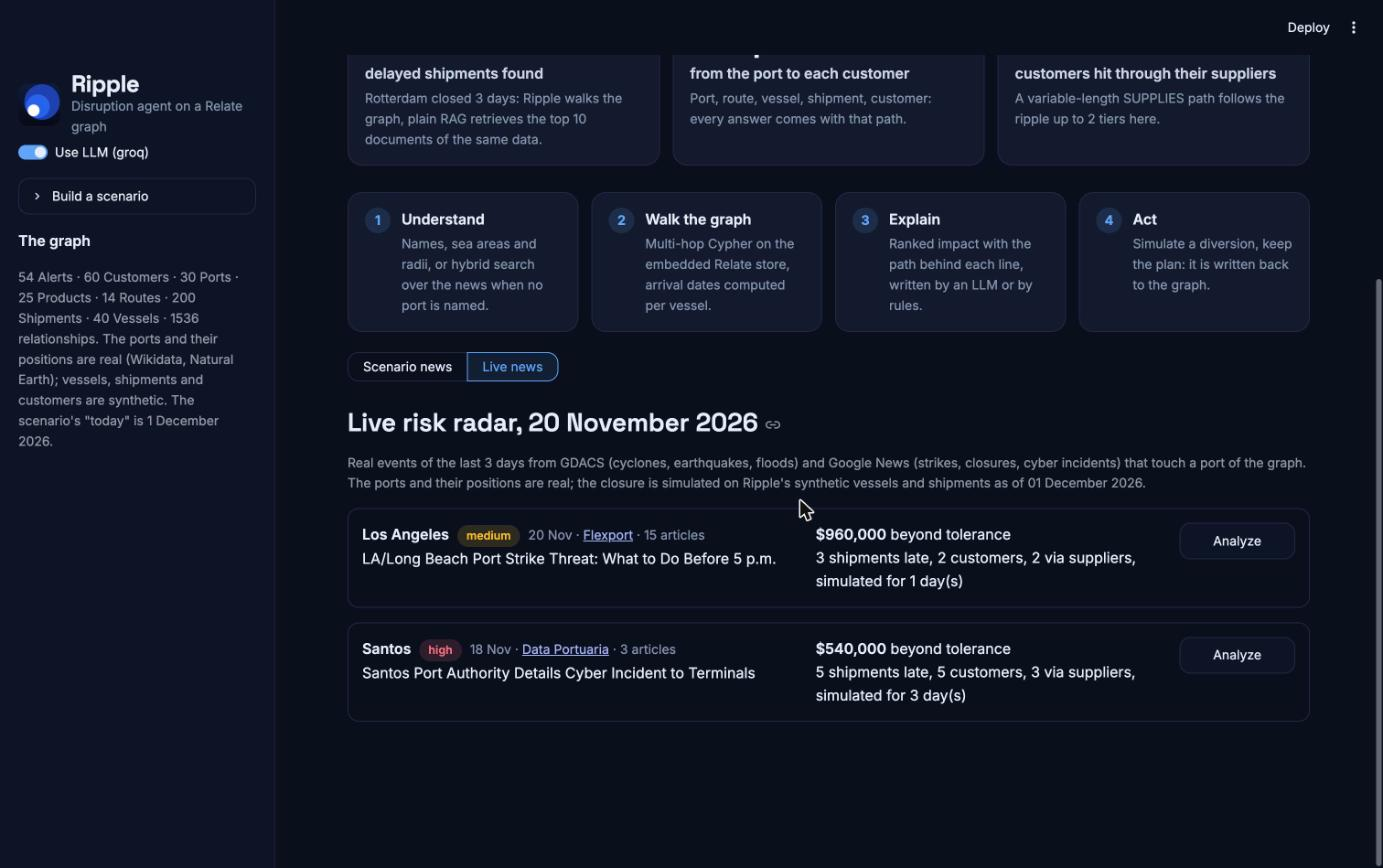
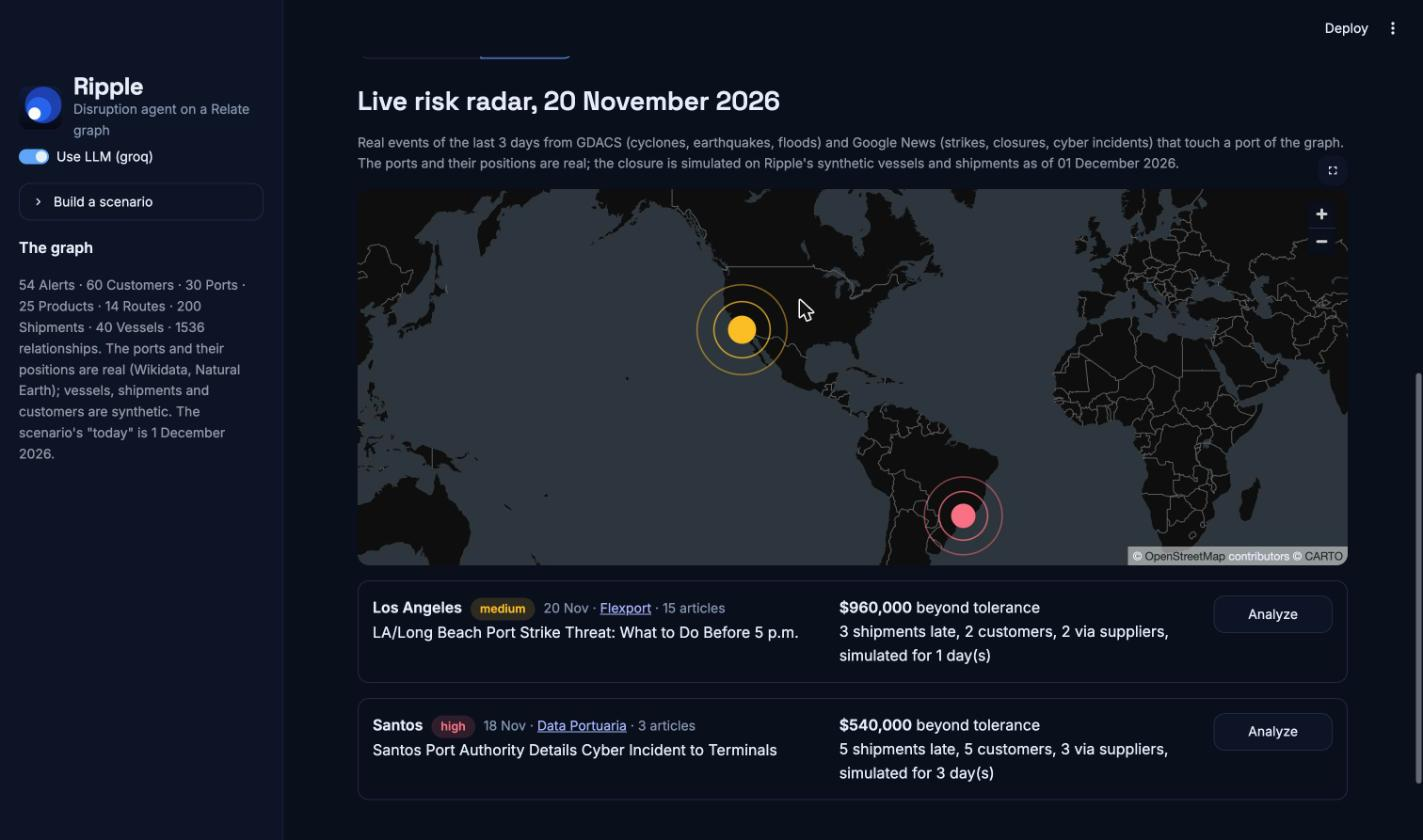
Show the ripple on a world map
New Impact map tab: the closed port with the logo's rings, one arc per late
shipment from its origin to its destination port (red beyond tolerance),
on to the customers' countries, then to the companies hit through their
suppliers, and the best fallback port. The risk radar also sits on a globe.
ripple/geo.py builds the rows (real port positions, customers at the centre
of their country); pydeck draws them on a CARTO basemap, no key needed.

diff --git a/app.py b/app.py
@@ -13,10 +13,11 @@ from html import escape
 from pathlib import Path
 
 import pandas as pd
+import pydeck as pdk
 import streamlit as st
 import streamlit.components.v1 as components
 
-from ripple import agent, db, live, llm, mitigation, plain_rag, queries, radar, viz, workspace
+from ripple import agent, db, geo, live, llm, mitigation, plain_rag, queries, radar, viz, workspace
 from ripple.generate import SCENARIO_DATE
 
 EXAMPLES = [
@@ -178,6 +179,85 @@ def graph_stats() -> dict:
     return {"nodes": nodes, "relationships": rels}
 
 
+# Map colours (RGBA): the logo's blues, plus red for the disruption and green for the way out.
+RED, AMBER, GREEN = [251, 113, 133], [251, 191, 36], [52, 211, 153]
+BLUE, VIOLET, GREY = [96, 165, 250], [167, 139, 250], [148, 163, 184]
+
+
+def deck(layers: list, lon: float = 20.0, lat: float = 25.0, zoom: float = 0.9) -> pdk.Deck:
+    # Scrolling the page must not zoom the map: zoom with the + and - buttons or a double click.
+    view = pdk.View(type="MapView", controller={"scrollZoom": False, "dragPan": True, "doubleClickZoom": True})
+    return pdk.Deck(layers=layers, views=[view], map_provider="carto", map_style=pdk.map_styles.CARTO_DARK,
+                    initial_view_state=pdk.ViewState(longitude=lon, latitude=lat, zoom=zoom, pitch=0),
+                    tooltip={"html": "{tip}", "style": {"backgroundColor": "#121A2C", "color": "#E6EDF7",
+                                                        "fontSize": "13px", "borderRadius": "8px"}})
+
+
+def rings(position: list, color: list, radii=(8, 15, 23)) -> list:
+    """The logo's ripple drawn on the map: a filled centre and widening rings (sizes in pixels)."""
+    point = [{"position": position, "tip": ""}]
+    layers = [pdk.Layer("ScatterplotLayer", point, get_position="position", radius_units="pixels",
+                        get_radius=r, filled=False, stroked=True, get_line_color=color + [230 - 65 * i],
+                        line_width_min_pixels=2) for i, r in enumerate(radii)]
+    return layers + [pdk.Layer("ScatterplotLayer", point, get_position="position", radius_units="pixels",
+                               get_radius=5, get_fill_color=color + [255])]
+
+
+@st.cache_data(show_spinner=False)
+def impact_map_data(result_json: str) -> dict:
+    conn = db.connect()
+    try:
+        return geo.impact_map(conn, json.loads(result_json))
+    finally:
+        conn.close()
+
+
+def show_impact_map(result: dict) -> None:
+    m = impact_map_data(json.dumps(result, default=str))
+    for s in m["shipments"]:
+        s["tip"] = (f"<b>{s['shipment']}</b> for {escape(s['customer'])}<br>{s['from_name']} → {s['to_name']}"
+                    f"<br>+{s['delay_days']} days" + (" · beyond tolerance" if s["beyond_tolerance"] else ""))
+    for d in m["deliveries"]:
+        d["tip"] = f"{d['customers']} late delivery(ies) to customers in {d['country']}"
+    for r in m["ripple"]:
+        r["tip"] = f"<b>{escape(r['customer'])}</b> is supplied by {escape(r['via'])}: hit {r['hops']} tier(s) later"
+    for p in m["ports"]:
+        p.update(position=[p["lon"], p["lat"]], tip=p["name"])
+    layers = [
+        pdk.Layer("ScatterplotLayer", m["ports"], get_position="position", get_radius=60_000, radius_min_pixels=3,
+                  get_fill_color=GREY + [140], pickable=True),
+        pdk.Layer("ArcLayer", m["ripple"], get_source_position="from", get_target_position="to",
+                  get_source_color=BLUE + [120], get_target_color=VIOLET + [230], get_width=1.5,
+                  get_height=0.5, pickable=True),
+        pdk.Layer("ArcLayer", m["deliveries"], get_source_position="from", get_target_position="to",
+                  get_source_color=AMBER + [160], get_target_color=BLUE + [230], get_width=2, pickable=True),
+        pdk.Layer("ArcLayer", [s for s in m["shipments"] if not s["beyond_tolerance"]],
+                  get_source_position="from", get_target_position="to", get_source_color=AMBER + [120],
+                  get_target_color=AMBER + [255], get_width=2.5, pickable=True),
+        pdk.Layer("ArcLayer", [s for s in m["shipments"] if s["beyond_tolerance"]],
+                  get_source_position="from", get_target_position="to", get_source_color=RED + [120],
+                  get_target_color=RED + [255], get_width=3.5, pickable=True),
+    ]
+    headline = [f"<b>{len(m['shipments'])}</b> late shipments to customers in <b>{len(m['countries'])}</b> countries"]
+    if m["fallback"]:
+        there = [m["fallback"]["lon"], m["fallback"]["lat"]]
+        layers += rings(there, GREEN, radii=(9,))
+        headline.append(f'best fallback: <b class="rp-good">{escape(m["fallback"]["name"])}</b>')
+    if m["closed"]:
+        here = [m["closed"]["lon"], m["closed"]["lat"]]
+        layers += rings(here, RED)
+        headline.insert(0, f'<b class="rp-bad">{escape(m["closed"]["name"])}</b> closed')
+    html('<div style="margin:.2rem 0 .5rem">' + " · ".join(headline) + "</div>")
+    st.pydeck_chart(deck(layers, lon=35.0, lat=22.0, zoom=0.95), height=520)
+    html('<div class="rp-muted" style="display:flex;flex-wrap:wrap;gap:6px 18px;margin-top:.3rem">'
+         '<span><span class="rp-bad">━</span> late shipment, beyond the customer\'s tolerance</span>'
+         '<span style="color:#FBBF24">━</span><span style="margin-left:-12px">&nbsp;late, still tolerated</span>'
+         '<span><span style="color:#60A5FA">━</span> on to the customer\'s country</span>'
+         '<span><span style="color:#A78BFA">━</span> companies hit through their suppliers</span>'
+         '<span><span class="rp-good">●</span> best fallback port</span>'
+         '<span>Ports and routes are real places; customers sit at the centre of their country.</span></div>')
+
+
 def show_result(result: dict, key: str) -> None:
     d, s = result["disruption"], result["summary"]
     what = "closed" if d["kind"] == "port_closure" else "out of service"
@@ -195,9 +275,12 @@ def show_result(result: dict, key: str) -> None:
         st.info("No vessel in the graph is scheduled to call there during that window.")
         return
 
-    tab_list, tab_graph, tab_downstream, tab_mitigation = st.tabs(
-        ["Impacted shipments", "Impact graph", "Ripple effect",
+    tab_map, tab_list, tab_graph, tab_downstream, tab_mitigation = st.tabs(
+        ["Impact map", "Impacted shipments", "Impact graph", "Ripple effect",
          "Mitigation" if d["kind"] == "port_closure" else "Alternatives"])
+
+    with tab_map:
+        show_impact_map(result)
 
     with tab_list:
         table = pd.DataFrame([{
@@ -406,6 +489,29 @@ def live_rows(day: str) -> tuple[list, list]:
         conn.close()
 
 
+def show_radar_map(rows: list) -> None:
+    conn = db.connect()
+    try:
+        points = geo.radar_map(conn, rows)
+    finally:
+        conn.close()
+    layers = []
+    top = max((p["value"] for p in points), default=1) or 1
+    for p in points:
+        color = RED if p["severity"] == "high" else AMBER
+        size = 3 + 3.5 * (p["value"] / top) ** 0.5  # pixels: area grows with the cargo at risk
+        p["tip"] = f"<b>{p['name']}</b> · {agent.money(p['value'])} beyond tolerance<br>{escape(p['text'])}"
+        layers += [pdk.Layer("ScatterplotLayer", [p], get_position="position", radius_units="pixels",
+                             get_radius=size * k, filled=False, stroked=True,
+                             get_line_color=color + [200 - 70 * i], line_width_min_pixels=1.5)
+                   for i, k in enumerate((2, 3.2))]  # hover a port for its name and alert
+        layers.append(pdk.Layer("ScatterplotLayer", [p], get_position="position", radius_units="pixels",
+                                get_radius=size, get_fill_color=color + [255], pickable=True))
+    # Centre on the alerts shown: Europe and Asia for the scenario, the Americas for today's news.
+    lons = [p["position"][0] for p in points] or [60.0]
+    st.pydeck_chart(deck(layers, lon=sum(lons) / len(lons), lat=20.0, zoom=1.2), height=400)
+
+
 def show_radar() -> None:
     mode = st.segmented_control("News source", ["Scenario news", "Live news"], default="Scenario news",
                                 key="radar_mode", label_visibility="collapsed")
@@ -430,6 +536,8 @@ def show_radar() -> None:
         st.caption("Before you ask: every serious news alert of the last 3 days that names a port, "
                    "with what is left of it simulated on the graph, ranked by the cargo that would arrive "
                    "later than customers tolerate.")
+    if rows:
+        show_radar_map(rows[:6])
     for i, r in enumerate(rows[:6]):
         with st.container(border=True):
             left, middle, right = st.columns([5, 4, 1.4])

diff --git a/ripple/geo.py b/ripple/geo.py
@@ -1,0 +1,101 @@
+"""Map data: where a disruption's ripple lands on the globe.
+
+The app draws these with pydeck; this module only turns query results into
+rows with coordinates, so it can be tested without a browser.
+
+  ports      every port of the graph (real positions)
+  closed     the disrupted port
+  shipments  one arc per late shipment, from its origin port to its
+             destination port: a closure in Rotterdam delays cargo that
+             never sails near it, like Felixstowe to Bremerhaven
+  customers  the customers waiting for that cargo, and the companies they
+             supply (second order), placed at the centre of their country:
+             the graph knows a customer's country, not its address
+  fallback   the port the best diversion goes to
+"""
+
+from collections import Counter
+
+# Approximate centre of each customer country (latitude, longitude).
+COUNTRY_CENTRES = {
+    "Germany": (51.2, 10.4), "France": (46.6, 2.4), "Netherlands": (52.2, 5.3),
+    "United Kingdom": (53.5, -1.8), "Spain": (40.2, -3.6), "Italy": (42.8, 12.6),
+    "United States": (39.8, -98.6), "Brazil": (-14.2, -51.9), "Japan": (36.2, 138.3),
+    "Singapore": (1.35, 103.82), "India": (22.0, 79.0), "United Arab Emirates": (23.4, 53.8),
+}
+
+PORTS = "MATCH (p:Port) RETURN p.code AS code, p.name AS name, p.lat AS lat, p.lon AS lon ORDER BY code"
+SHIPMENT_ENDS = """
+MATCH (s:Shipment)-[:ORIGIN]->(o:Port), (s)-[:DESTINATION]->(d:Port), (s)-[:FOR]->(c:Customer)
+WHERE s.id IN $ids
+RETURN s.id AS id, o.code AS origin, d.code AS destination, c.id AS customer, c.country AS country
+"""
+COUNTRIES = "MATCH (c:Customer) WHERE c.id IN $ids RETURN c.id AS id, c.country AS country"
+
+
+def ports(conn) -> list[dict]:
+    return [dict(r) for r in conn.execute(PORTS)]
+
+
+def impact_map(conn, result: dict) -> dict:
+    """Rows for the map of one disruption (a queries.port_closure or vessel_outage result)."""
+    where = {p["code"]: p for p in ports(conn)}
+    late = {r["shipment"]: r for r in result["impacted"]}
+    shipments, first_order = [], Counter()
+    for end in conn.execute(SHIPMENT_ENDS, {"ids": list(late)}):
+        row, o, d = late[end["id"]], where[end["origin"]], where[end["destination"]]
+        shipments.append({
+            "shipment": end["id"], "customer": row["customer"], "delay_days": row["delay_days"],
+            "beyond_tolerance": row["sla_breached"], "value_usd": row["value_usd"],
+            "from_name": o["name"], "to_name": d["name"],
+            "from": [o["lon"], o["lat"]], "to": [d["lon"], d["lat"]],
+        })
+        first_order[(end["destination"], end["country"])] += 1
+    # Cargo leaves the destination port for the customer's country.
+    deliveries = [{"from": [where[port]["lon"], where[port]["lat"]], "to": _centre(country),
+                   "country": country, "customers": n}
+                  for (port, country), n in sorted(first_order.items()) if country in COUNTRY_CENTRES]
+    # Second order: the late customer's country to the country of the company it supplies.
+    supplier_country = {r["id"]: r["country"] for r in conn.execute(COUNTRIES, {"ids": [
+        c for r in result["downstream"] for c in (r["customer_id"], _customer_id(result, r["via_customer"]))]})}
+    ripple = []
+    for r in result["downstream"]:
+        a = supplier_country.get(_customer_id(result, r["via_customer"]))
+        b = supplier_country.get(r["customer_id"])
+        if a in COUNTRY_CENTRES and b in COUNTRY_CENTRES:
+            ripple.append({"from": _centre(a), "to": _centre(b), "customer": r["customer"],
+                           "via": r["via_customer"], "hops": r["supplier_hops"]})
+    countries = Counter(d["country"] for d in deliveries for _ in range(d["customers"]))
+    d = result["disruption"]
+    closed = where.get(d.get("code")) if d["kind"] == "port_closure" else None
+    best = result.get("best_diversion")
+    fallback = where.get(best["fallback"]["code"]) if best and best.get("shipments_rescued") else None
+    return {
+        "ports": list(where.values()),
+        "closed": closed, "fallback": fallback,
+        "shipments": shipments, "deliveries": deliveries, "ripple": ripple,
+        "countries": [{"country": c, "position": _centre(c), "shipments": n} for c, n in countries.items()],
+    }
+
+
+def radar_map(conn, rows: list[dict]) -> list[dict]:
+    """One point per port of each radar row, sized by the cargo at risk."""
+    where = {p["code"]: p for p in ports(conn)}
+    points = []
+    for r in rows:
+        for code in r["port_codes"]:
+            p = where[code]
+            points.append({"name": p["name"], "position": [p["lon"], p["lat"]], "severity": r["severity"],
+                           "value": r["value_beyond_tolerance_usd"], "shipments": r["shipments"],
+                           "text": r["text"]})
+    return points
+
+
+def _centre(country: str) -> list[float]:
+    lat, lon = COUNTRY_CENTRES[country]
+    return [lon, lat]
+
+
+def _customer_id(result: dict, name: str) -> str | None:
+    """The id of a first-order customer, from its name in the impacted rows."""
+    return next((r["customer_id"] for r in result["impacted"] if r["customer"] == name), None)

diff --git a/tests/test_geo.py b/tests/test_geo.py
@@ -1,0 +1,42 @@
+"""Map data: every late shipment and customer lands at a real place."""
+
+import pytest
+
+from ripple import db, generate, geo, queries, radar
+
+
+@pytest.fixture
+def conn():
+    c = db.connect()
+    yield c
+    c.close()
+
+
+def test_every_customer_country_has_a_position():
+    assert set(generate.CUSTOMER_COUNTRIES) <= set(geo.COUNTRY_CENTRES)
+
+
+def test_impact_map_of_a_port_closure(conn):
+    result = queries.port_closure(conn, "NLRTM", 3)
+    m = geo.impact_map(conn, result)
+    assert m["closed"]["name"] == "Rotterdam" and len(m["ports"]) == 30
+    assert len(m["shipments"]) == result["summary"]["shipments"]  # one arc per late shipment
+    assert {s["beyond_tolerance"] for s in m["shipments"]} == {True, False}
+    assert sum(c["shipments"] for c in m["countries"]) == len(m["shipments"])
+    assert m["ripple"]  # companies hit through their suppliers
+    for arc in m["shipments"] + m["deliveries"] + m["ripple"]:
+        for lon, lat in (arc["from"], arc["to"]):
+            assert -180 <= lon <= 180 and -90 <= lat <= 90
+
+
+def test_impact_map_of_a_vessel_outage_has_no_closed_port(conn):
+    imo = conn.execute("MATCH (v:Vessel {name: 'MV Silver Spirit'}) RETURN v.imo AS imo").fetchone()["imo"]
+    result = queries.vessel_outage(conn, imo, 4)
+    assert geo.impact_map(conn, result)["closed"] is None
+
+
+def test_radar_map_places_each_alerted_port(conn):
+    rows = radar.scan(conn)
+    points = geo.radar_map(conn, rows)
+    assert len(points) == sum(len(r["port_codes"]) for r in rows)
+    assert points[0]["name"] == "Rotterdam"

diff --git a/README.md b/README.md
@@ -19,6 +19,8 @@ A supply chain disruption agent on a <a href="https://relatedb.ai">Relate</a> gr
 - **Ripple walks the graph**: port → routes → vessels due during the closure → cargo on board or not
   loaded yet → customers → the companies they supply, up to 3 supplier tiers. Every answer comes
   with **the exact path** that explains it.
+- **It shows the ripple on a world map**: one closure in Rotterdam, late cargo from Jebel Ali to
+  New York, customers in 11 countries, companies hit through their suppliers, the fallback port.
 - **It finds 29 delayed shipments where plain RAG finds 1**, on the same data and the same question.
 - **It acts**: a risk radar ranks today's news by exposure before you ask, a simulator finds the
   best diversion (Rotterdam → Hamburg protects $2.9M), and kept plans are written back to the graph.
@@ -28,6 +30,8 @@ A supply chain disruption agent on a <a href="https://relatedb.ai">Relate</a> gr
   hazards, Google News headlines on strikes, closures and cyber incidents) are matched to the ports
   of the graph and simulated on it. The ports and their positions are real (Wikidata, Natural
   Earth); vessels, shipments and customers are synthetic.
+
+![Impact map: Rotterdam closed, the late shipments and the customers they reach](docs/impact-map.png)
 
 ## Why a graph
 
@@ -80,7 +84,7 @@ streamlit run app.py
 ```
 
 The Relate store is committed in `data/ripple.relate`: nothing to start or load. For the LLM mode,
-`cp .env.example .env` and add a free Groq key. Tests: `python -m pytest` (167 tests, run in CI on
+`cp .env.example .env` and add a free Groq key. Tests: `python -m pytest` (171 tests, run in CI on
 Python 3.12 and 3.13 with a lint step and a check that the committed store matches the generator).
 
 ## Try these
@@ -255,9 +259,10 @@ ripple/lookup.py       free questions: LLM-written, checked, read-only Cypher
 ripple/plain_rag.py    plain RAG baseline for the comparison
 ripple/evaluate.py     retrieval scores on 33 questions
 ripple/viz.py          static and interactive graph drawings
+ripple/geo.py          map data: late shipments as arcs, customers by country, the radar on a globe
 ripple/mcp_server.py   MCP tools
 app.py                 Streamlit UI
-tests/                 167 tests
+tests/                 171 tests
 ```
 </details>
 

diff --git a/SUBMISSION.md b/SUBMISSION.md
@@ -10,8 +10,8 @@ away from the event: a graph question, and the test of connected context.
 ### What it does
 Ripple takes a disruption in plain English ("Port of Rotterdam closed for 3 days", "the
 ransomware attack in Korea") and walks a Relate graph of ports, routes, vessels, shipments,
-products and customers. It lists every delayed shipment and affected customer, ranks them by
-delay, priority and customer tier, and shows the exact path behind each answer. It follows the
+products and customers. It draws the ripple on a world map, lists every delayed shipment and
+affected customer, ranks them by delay, priority and customer tier, and shows the exact path behind each answer. It follows the
 ripple up to three supplier tiers, understands sea areas ("typhoon in the South China Sea"),
 takes follow-ups ("and if it lasts a week?") and simulates diverting vessels to a nearby port.
 Before anyone asks, a risk radar ranks today's news by exposure, including real events from GDACS
@@ -34,7 +34,7 @@ as a document and the same hybrid search, and the vessel-outage case shows where
 
 ### Accomplishments that we're proud of
 Every answer is explainable by a path. Every one of the 30 ports gives a real answer. Retrieval is
-measured on 33 questions (100% hybrid, 91% without the embedding model). 167 tests run in CI,
+measured on 33 questions (100% hybrid, 91% without the embedding model). 171 tests run in CI,
 including one that regenerates the store and checks it matches the committed one.
 
 ### What we learned
